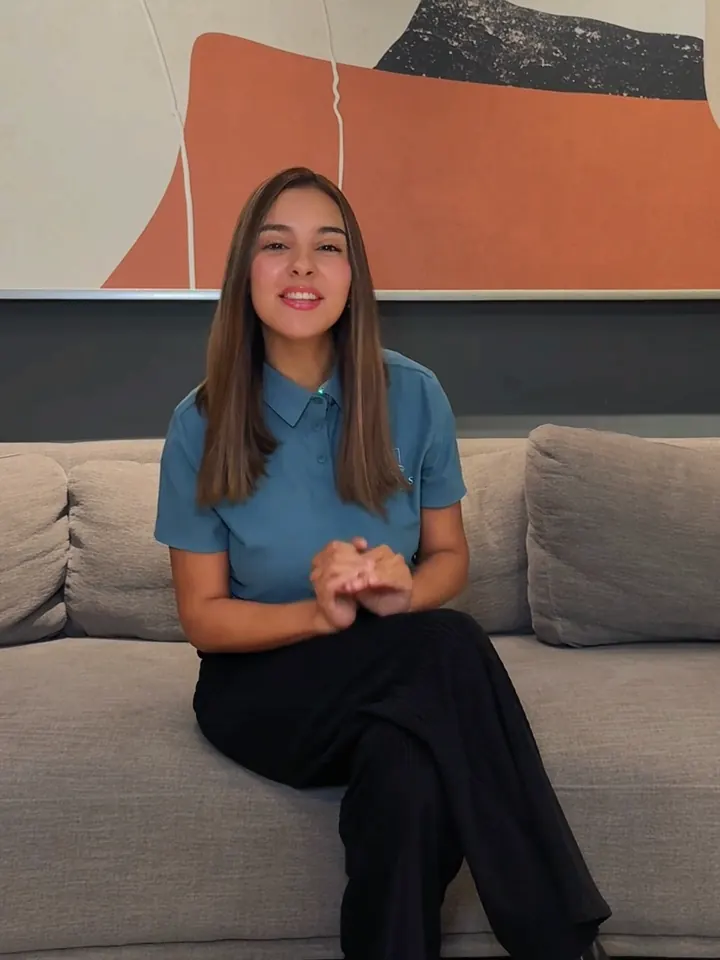
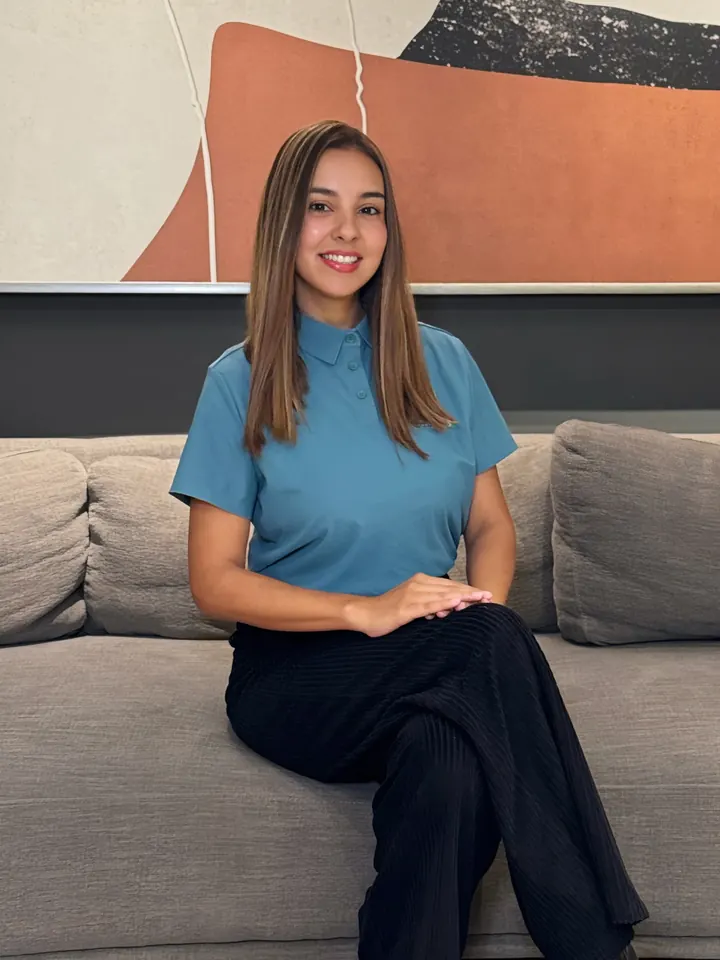
Equipo: fotos de la sesión del cliente como vista previa (#13)
* Temporal: flujo para bajar fotos candidatas de Commons

* Fotos candidatas desde Commons

* Temporal: segunda búsqueda de candidatas para Marchigüe

* Fotos candidatas desde Commons

* Temporal: bajar las fotos elegidas

* Fotos candidatas desde Commons

* Fotos de la zona en las tarjetas de otros proyectos (Malalcahuello y Marchigüe)

Volcán Lonquimay con araucarias (Reserva Malalcahuello, K. Ziarnek, CC BY 4.0)
y viñedos del valle de Colchagua (Viña Montes, T. Wiersma, CC BY 2.0), de
Wikimedia Commons, con lugar y crédito sobre la foto. Se quita el flujo
temporal que las bajó.

Claude-Session: https://claude.ai/code/session_01BUJ9e5WXkqhX7TRnJpZaWq

* Apartado "Conoce cada proyecto" en la pestaña Proyectos

Un apartado por proyecto (Malalcahuello y Marchigüe), más chico que la
pestaña Puerto Varas: foto de portada con crédito, desde/disponibles/
superficie/reserva, características, cercanías con enlace al mapa del
entorno, y Ver lotes / Cotizar / 360° / video. Se arma desde el manifiesto
(foto, caracteristicas), así que un proyecto nuevo solo necesita sus datos;
el selector es una franja deslizable en vez de una pestaña por proyecto.
Enlace directo #proyecto-ID. Reemplaza la antigua ficha en ventana; las
pruebas que la usaban pasan al apartado.

Claude-Session: https://claude.ai/code/session_01BUJ9e5WXkqhX7TRnJpZaWq

* Temporal: bajar páginas de los recorridos 360°

* Archivos de los recorridos

* Temporal: configuración y caras de los recorridos
[…]

diff --git a/lib/manifest.js b/lib/manifest.js
@@ -46,7 +46,7 @@
         bio: ["Hola, soy Mari 🌿", "Para mí, encontrar una parcela es mucho más que comprar un terreno. Es encontrar ese lugar donde construir un proyecto, compartir en familia o simplemente desconectarse y disfrutar. 🏡✨", "Me gusta escucharte, entender qué buscas y ayudarte a encontrar un lugar que realmente haga sentido para ti.", "Si estás pensando en tener tu lugar, conversemos. 🏔💚"],
         video: { mp4: "assets/video/equipo-mari.mp4", webm: "assets/video/equipo-mari.webm", poster: "assets/video/equipo-mari.webp", dur: 8,
                  tarjeta: { mp4: "assets/video/equipo-mari-tarjeta.mp4", webm: "assets/video/equipo-mari-tarjeta.webm" } } },
-      { nombre: "Valentina Medina", cargo: "Equipo comercial", foto: "assets/img/vendedor-3.webp", whatsapp: "",
+      { nombre: "Valentina Medina", cargo: "Equipo comercial", foto: "assets/img/equipo-valentina.webp", whatsapp: "",
         bio: ["Soy Valentina, asesora especializada en convertir sueños en oportunidades reales. Mi compromiso es brindarte una asesoría cercana, transparente y personalizada, acompañándote en cada etapa para que tomes decisiones con confianza y tranquilidad. Porque detrás de cada proyecto hay una meta importante, estaré encantada de apoyarte.", "¿Hablamos y damos juntos el siguiente paso?"] },
       { nombre: "Jeanette Astudillo", cargo: "Equipo comercial", foto: "assets/img/equipo-jeanette.webp", whatsapp: "",
         bio: ["Soy Jeanette, y me apasiona ayudar a las personas a encontrar su lugar ideal en la naturaleza.", "Te acompaño de forma cercana y transparente en cada etapa, para que tomes una decisión segura al elegir tu parcela.", "¡Conversemos y hagamos realidad tu próximo proyecto!"],
@@ -56,11 +56,11 @@
         bio: ["Comprar una parcela es una decisión importante, y mi objetivo no es simplemente venderte un terreno, sino ayudarte a tomar una buena decisión para ti y tu familia.", "Me gusta conocer qué estás buscando, responder tus dudas con claridad y acompañarte durante todo el proceso, sin presiones y con información transparente. 🏡", "Si estás pensando en dar el paso hacia tu parcela, conversemos.", "📲 Escríbeme y cuéntame qué tienes en mente. Yo me encargo de orientarte."],
         video: { mp4: "assets/video/equipo-stefy.mp4", webm: "assets/video/equipo-stefy.webm", poster: "assets/video/equipo-stefy.webp", dur: 11,
                  tarjeta: { mp4: "assets/video/equipo-stefy-tarjeta.mp4", webm: "assets/video/equipo-stefy-tarjeta.webm" } } },
-      { nombre: "Diego Navarrete", cargo: "Equipo comercial", foto: "assets/img/vendedor-6.webp", whatsapp: "",
+      { nombre: "Diego Navarrete", cargo: "Equipo comercial", foto: "assets/img/equipo-diego.webp", whatsapp: "",
         bio: ["¿Cansado de cotizar parcelas y que ninguna sea la indicada?", "Buscar el terreno ideal puede ser frustrante: promesas que no se cumplen, precios ocultos o lugares que no se adaptan a lo que realmente sueñas. ¡No tienes que pasar por eso solo!", "Te puedo ayudar a encontrar lo que deseas.", "Mi objetivo no es solo venderte, sino escucharte, entender lo que buscas y brindarte el asesoramiento transparente que necesitas.", "Escríbeme hoy mismo y encontremos juntos tu próximo refugio o inversión."] },
-      { nombre: "Geonela Roeder", cargo: "Equipo comercial", foto: "assets/img/vendedor-7.webp", whatsapp: "",
+      { nombre: "Geonela Roeder", cargo: "Equipo comercial", foto: "assets/img/equipo-geonela.webp", whatsapp: "",
         bio: ["Hola, soy Geonela Roeder, asesora de Fundos Inmobiliaria. Quiero acompañarte en cada paso para que encuentres la parcela que realmente se ajuste a ti, con la información y orientación necesarias para tomar una decisión segura, informada e inteligente. Porque no se trata solo de comprar un terreno, sino de elegir bien dónde construir tus próximos sueños."] },
-      // Elvys: sin apellido, cargo ni presentación escrita todavía (por confirmar con el cliente). Las fotos de quienes tienen video son un cuadro del mismo video (assets/img/equipo-ID.webp).
+      // Elvys: sin apellido, cargo ni presentación escrita todavía (por confirmar con el cliente). Fotos de todo el equipo: sesión del cliente en la oficina (octubre 2026), recortadas como el saludo en video.
       { nombre: "Elvys", cargo: "Equipo comercial", foto: "assets/img/equipo-elvys.webp", whatsapp: "",
         video: { mp4: "assets/video/equipo-elvys.mp4", webm: "assets/video/equipo-elvys.webm", poster: "assets/video/equipo-elvys.webp", dur: 10,
                  tarjeta: { mp4: "assets/video/equipo-elvys-tarjeta.mp4", webm: "assets/video/equipo-elvys-tarjeta.webm" } } }

diff --git a/index.html b/index.html
@@ -27,11 +27,11 @@
 <link rel="preload" href="assets/fonts/cormorant-garamond.woff2" as="font" type="font/woff2" crossorigin>
 <link rel="preload" href="assets/fonts/cormorant-garamond-italic.woff2" as="font" type="font/woff2" crossorigin>
 <link rel="preload" href="assets/fonts/mulish.woff2" as="font" type="font/woff2" crossorigin>
-<link rel="stylesheet" href="styles.css?v=20261008b">
-<script defer src="lib/manifest.js?v=20261008b"></script>
-<script defer src="lib/analitica.js?v=20261008b"></script>
-<script defer src="lib/planos.js?v=20261008b"></script>
-<script defer src="main.js?v=20261008b"></script>
+<link rel="stylesheet" href="styles.css?v=20261008c">
+<script defer src="lib/manifest.js?v=20261008c"></script>
+<script defer src="lib/analitica.js?v=20261008c"></script>
+<script defer src="lib/planos.js?v=20261008c"></script>
+<script defer src="main.js?v=20261008c"></script>
 </head>
 <body>
 <a class="skip-link" href="#contenido">Saltar al contenido</a>

diff --git a/CLAUDE.md b/CLAUDE.md
@@ -179,13 +179,13 @@ Mínimo antes de publicar: `interacciones.js`, `plano.js`, `qa.js`, `anchos.js` 
 ## Decisiones tomadas con el cliente
 - Portada: video de caballos pastando (entregado por el cliente, `assets/video/portada*`: bucle sin salto con fundido, sin audio, versión vertical para celular) en el marco de la foto del equipo, que queda de respaldo.
 - Una tarjeta y una ficha (ventana) por persona del equipo, con su presentación en sus palabras (sin reescribirla).
-  Saludos en video (octubre 2026): Mari, Jeanette, Stefy y Elvys (grabados por el cliente en la misma oficina). Su foto
-  es un cuadro del mismo video (`assets/img/equipo-ID.webp`, cabeza y hombros) y `video.tarjeta` es el saludo con ese
-  mismo recorte: al pasar el cursor (computador) la foto se vuelve video con sonido; si el navegador aún no deja sonar,
+  Saludos en video (octubre 2026): Mari, Jeanette, Stefy y Elvys (grabados por el cliente en la misma oficina). Todas las
+  fotos (`assets/img/equipo-ID.webp`, cabeza y hombros) son de una sesión del cliente en la misma oficina, recortadas con
+  la cara en la misma posición y tamaño que el saludo (`video.tarjeta`) para que el cambio foto→video no salte; esa foto
+  completa es también la portada del video en la ficha: al pasar el cursor (computador) la foto se vuelve video con sonido; si el navegador aún no deja sonar,
   parte en silencio con "Haz clic para verlo con sonido" y el clic abre la ficha con el saludo completo. Quienes no
-  tienen video quedan como estaban. Portada de cada saludo: un cuadro con sonrisa, ojos abiertos y de frente
-  (Elvys 9,5 s, Jeanette 1,5 s, Mari 4,5 s, Stefy 8,5 s del original; originales en el historial: `0475102`, `2eafd5d`,
-  `d0152bd`, `679a800`). El equipo es una **galería en filas** (el cliente no quería deslizar ni paneles chicos):
+  tienen video quedan como estaban. Videos originales en el historial (`0475102`, `2eafd5d`, `d0152bd`, `679a800`);
+  fotos originales en `f87e740`. El equipo es una **galería en filas** (el cliente no quería deslizar ni paneles chicos):
   tarjetas grandes, 4 por fila en computador ("Conversemos" en el último lugar), 3 en tablet y 2 en celular; el
   saludo se reproduce en la misma tarjeta. **Marjorie Castellón salió del equipo** (pedido del cliente). Elvys aún sin
   apellido ni presentación escrita. Material nuevo: el cliente lo sube a `subidas/` en la rama de trabajo (los
